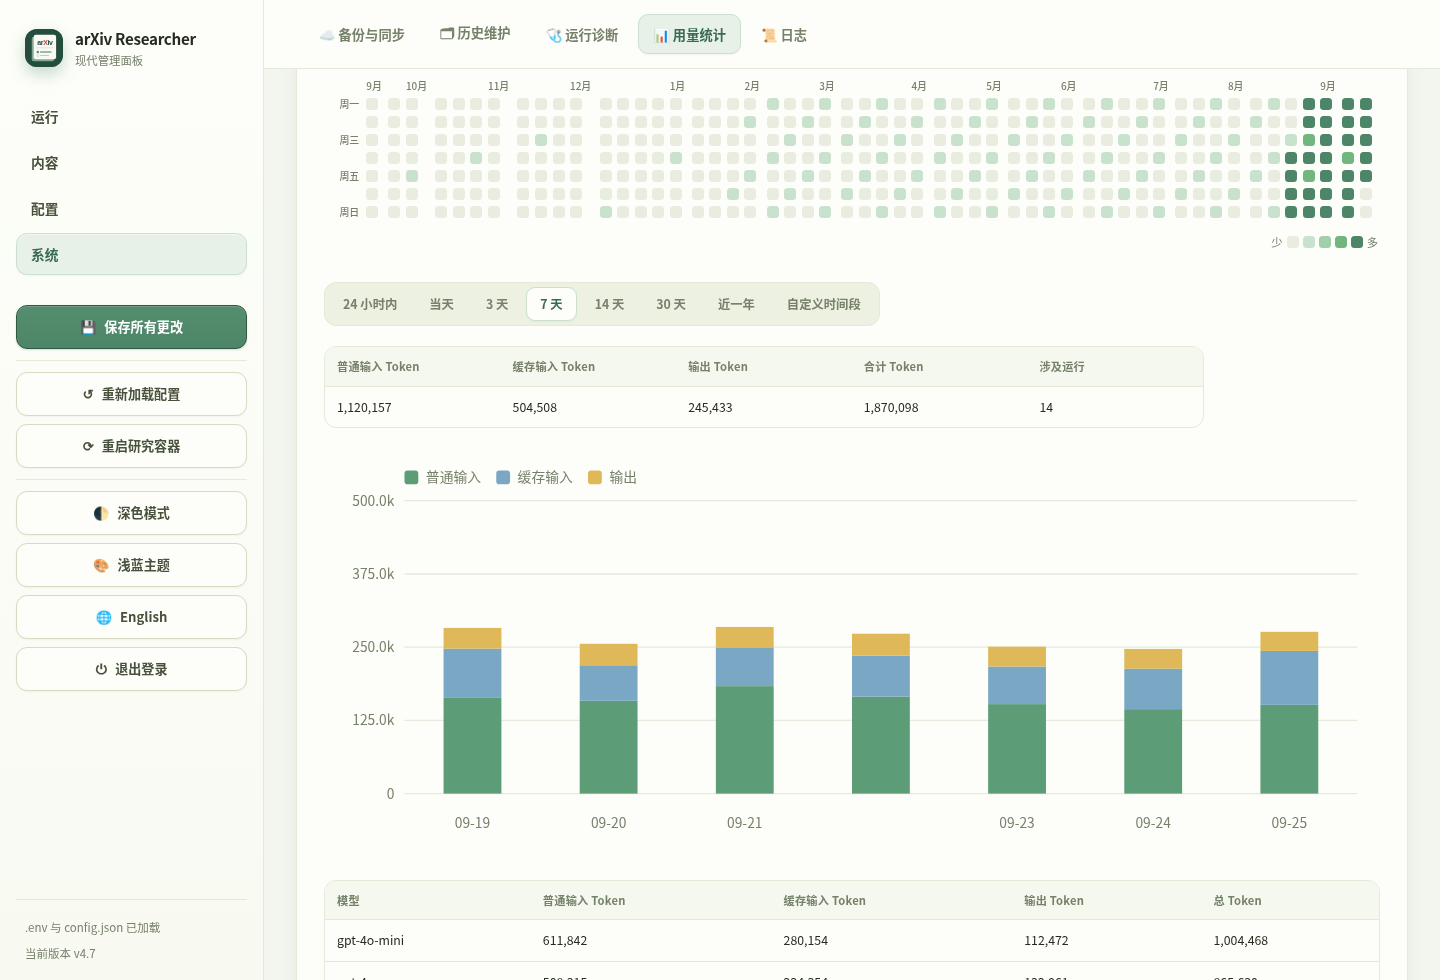
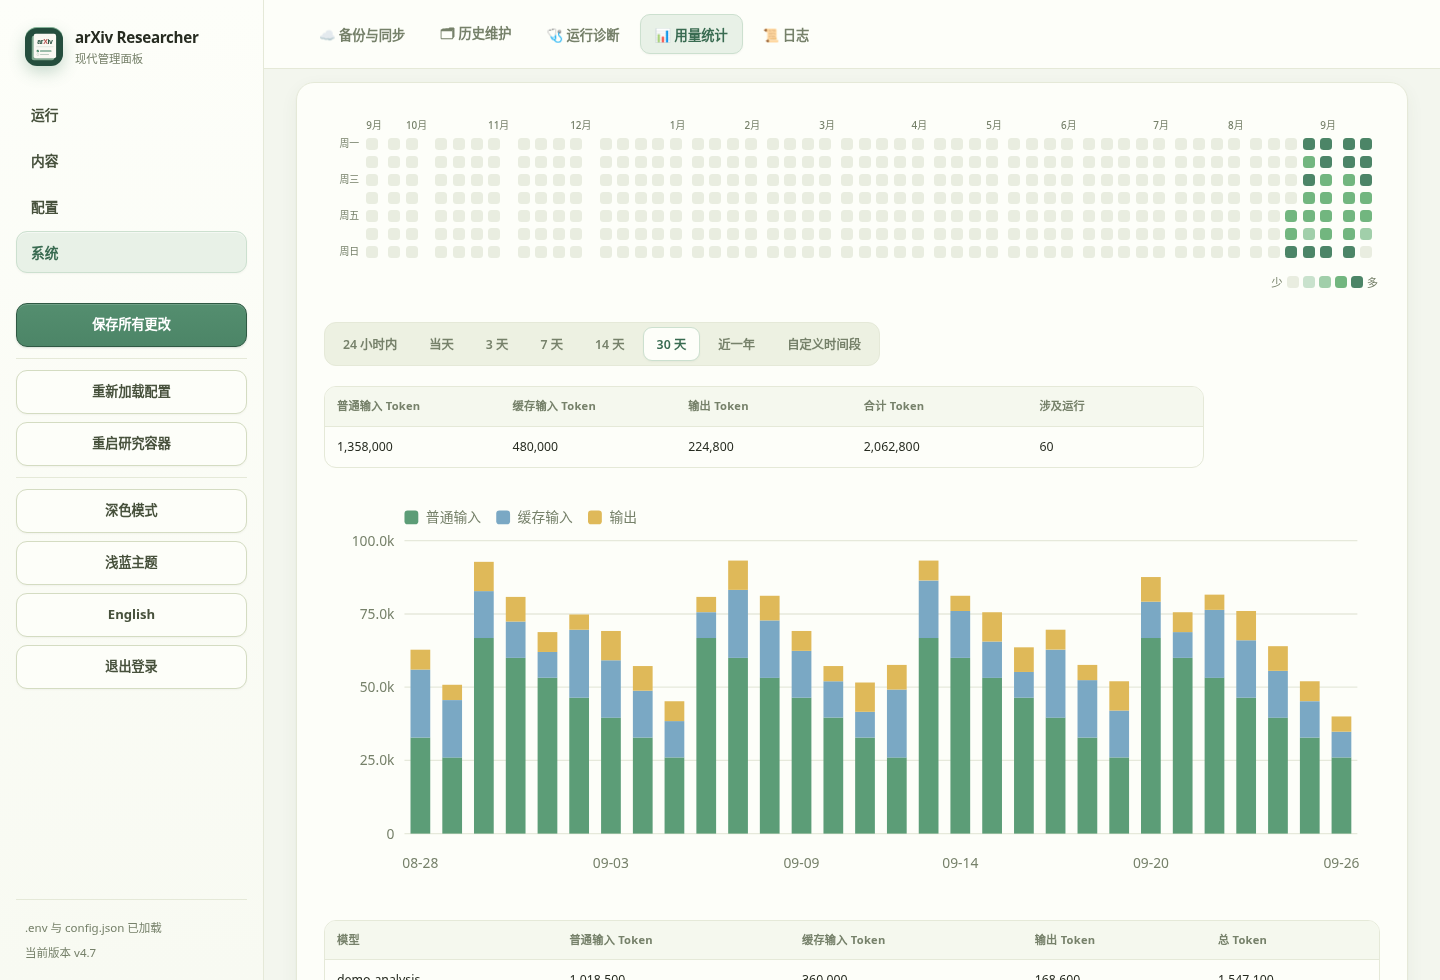
style(webui): keep sidebar actions text-only

diff --git a/src/modern_webui/static/app.css b/src/modern_webui/static/app.css
@@ -152,14 +152,6 @@ h3 { margin: 0 0 14px; font-size: .92rem; font-weight: 700; line-height: 1.45; }
 .sidebar-actions { display: grid; gap: 8px; margin-top: 30px; }
 /* 次要操作按用途分组：配置操作、外观与语言，组间以细分隔线区隔。 */
 .sidebar-actions-group { display: grid; gap: 8px; margin-top: 3px; padding-top: 11px; border-top: 1px solid var(--line); }
-.sidebar-actions button::before { margin-right: 8px; }
-#save-button::before { content: "💾"; }
-#reload-button::before { content: "↺"; }
-#restart-worker-button::before { content: "⟳"; }
-#theme-button::before { content: "🌓"; }
-#palette-button::before { content: "🎨"; }
-#language-button::before { content: "🌐"; }
-#logout-button::before { content: "⏻"; }
 .sidebar-meta { margin-top: auto; padding: 19px 9px 0; border-top: 1px solid var(--line); color: var(--muted); font-size: .72rem; }
 .sidebar-meta p { margin: 0; line-height: 1.5; }
 .sidebar-meta #current-version { margin-top: 8px; font-variant-numeric: tabular-nums; }
@@ -309,14 +301,13 @@ h3 { margin: 0 0 14px; font-size: .92rem; font-weight: 700; line-height: 1.45; }
 .secondary-button:active:not(:disabled) { transform: translateY(0); }
 .danger-button { border: 1px solid #efc4b8; background: var(--card); color: #a04432; }
 .danger-button:hover:not(:disabled) { background: var(--danger-soft); }
-/* 按压下沉、键盘聚焦环与保存中的旋转指示，让点击有明确反馈。 */
+/* 按压下沉与键盘聚焦环，让点击有明确反馈。 */
 .primary-button:active:not(:disabled), .secondary-button:active:not(:disabled), .danger-button:active:not(:disabled) { transform: translateY(0) scale(.985); }
 .primary-button:focus-visible, .secondary-button:focus-visible, .danger-button:focus-visible { outline: none; }
 .primary-button:focus-visible { box-shadow: 0 0 0 3px var(--brand-ring), 0 1px 2px rgba(47, 89, 67, .18), inset 0 1px 0 rgba(255, 255, 255, .16); }
 .secondary-button:focus-visible { box-shadow: 0 0 0 3px var(--brand-ring), var(--shadow-xs); }
 .danger-button:focus-visible { box-shadow: 0 0 0 3px rgba(192, 79, 58, .2); }
 .primary-button.is-busy { cursor: progress; }
-.primary-button.is-busy::after { width: 13px; height: 13px; margin-left: 8px; border: 2px solid rgba(255, 255, 255, .38); border-top-color: #fff; border-radius: 50%; content: ""; animation: analytics-spin .7s linear infinite; }
 .wide-button { width: 100%; }
 .compact-button { min-height: 35px; padding: 0 12px; border-radius: 9px; font-size: .74rem; }
 .icon-danger { display: inline-grid; width: 34px; height: 34px; place-items: center; padding: 0; border: 0; border-radius: 10px; background: var(--danger-soft); color: var(--danger); font-size: 1.08rem; }

diff --git a/src/modern_webui/static/app.js b/src/modern_webui/static/app.js
@@ -1237,6 +1237,15 @@ function hasUnsavedConfiguration() {
 let dirtyIndicatorState = null;
 let dirtyIndicatorLanguage = null;
 
+function updateSaveButtonLabel(button, dirty) {
+  if (!button) return;
+  button.textContent = button.classList.contains("is-busy")
+    ? localeText("保存中…", "Saving…")
+    : dirty
+      ? localeText("保存所有更改 · 有未保存修改", "Save All Changes · Unsaved")
+      : localeText("保存所有更改", "Save All Changes");
+}
+
 function updateConfigurationDirtyIndicator() {
   const dirty = hasUnsavedConfiguration();
   if (dirtyIndicatorState === dirty && dirtyIndicatorLanguage === state.language) return;
@@ -1245,9 +1254,7 @@ function updateConfigurationDirtyIndicator() {
   const saveButton = $("#save-button");
   if (saveButton) {
     saveButton.classList.toggle("has-unsaved", dirty);
-    saveButton.textContent = dirty
-      ? localeText("保存所有更改 · 有未保存修改", "Save All Changes · Unsaved")
-      : localeText("保存所有更改", "Save All Changes");
+    updateSaveButtonLabel(saveButton, dirty);
   }
   const status = $("#file-status");
   if (status) status.textContent = dirty
@@ -4739,6 +4746,7 @@ async function saveAll(showMessage = true) {
     if (!saveButton) return;
     saveButton.disabled = busy;
     saveButton.classList.toggle("is-busy", busy);
+    updateSaveButtonLabel(saveButton, hasUnsavedConfiguration());
   };
   setSaveBusy(true);
   try {
